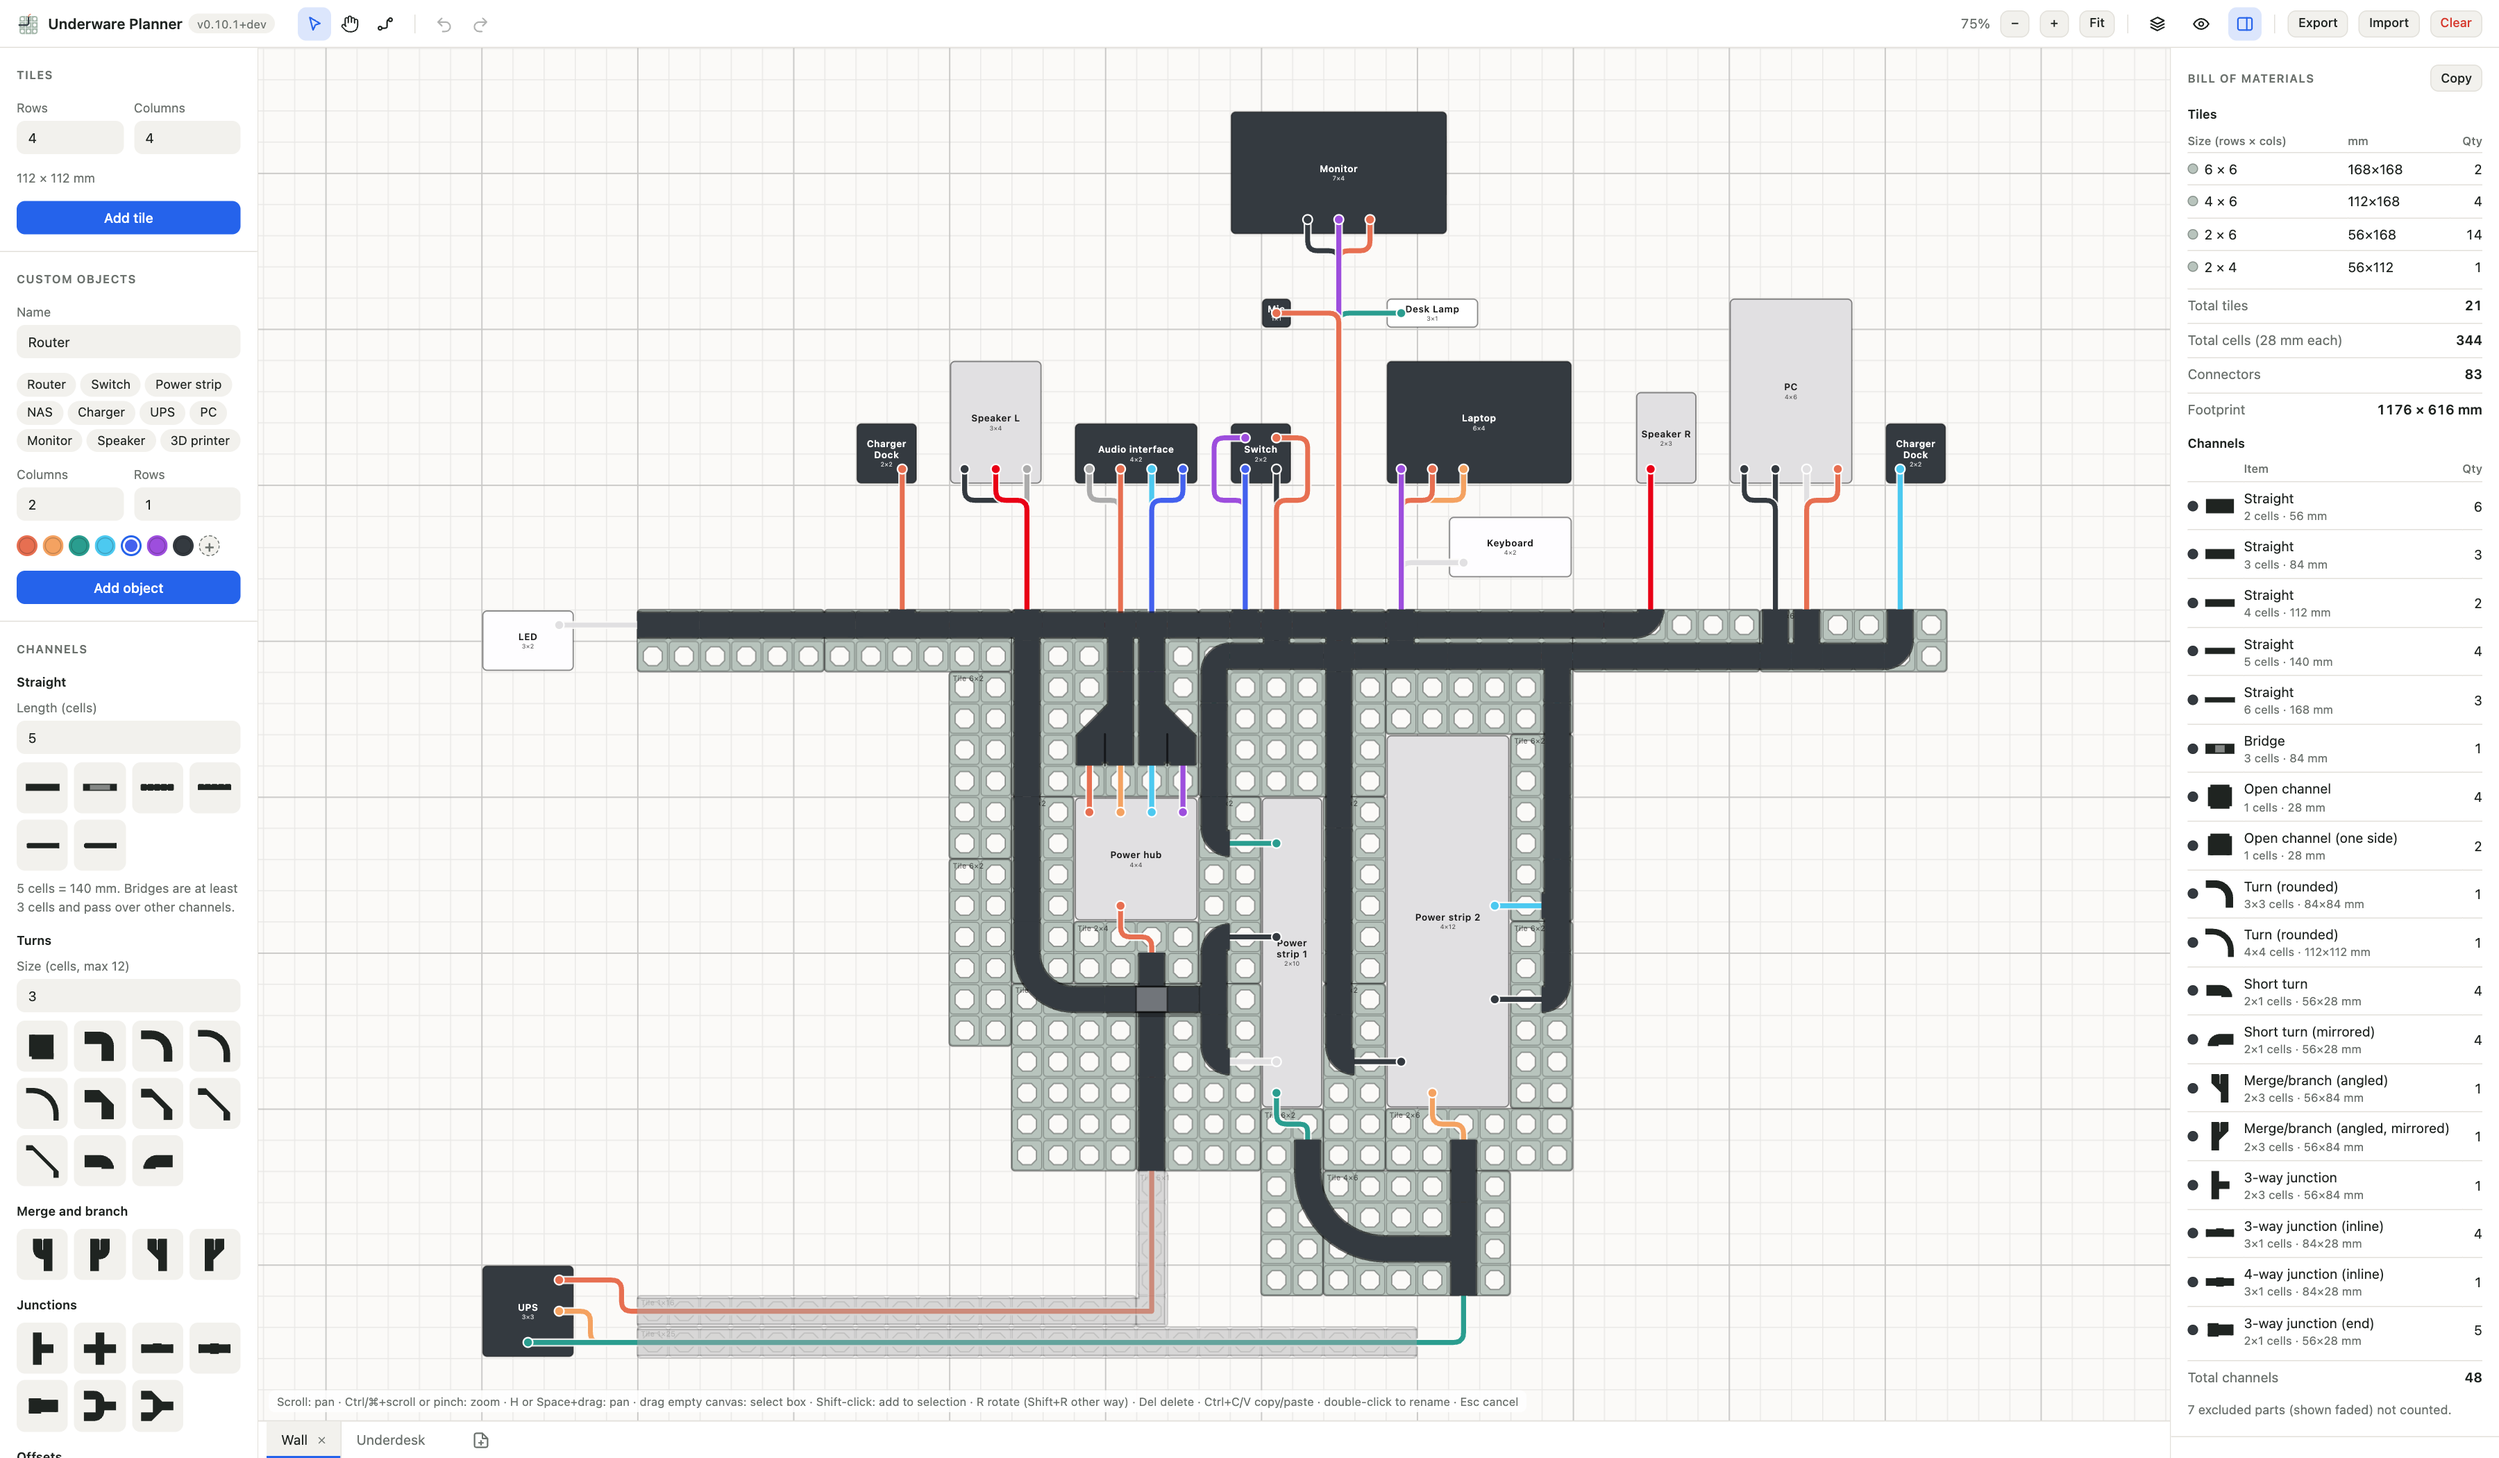
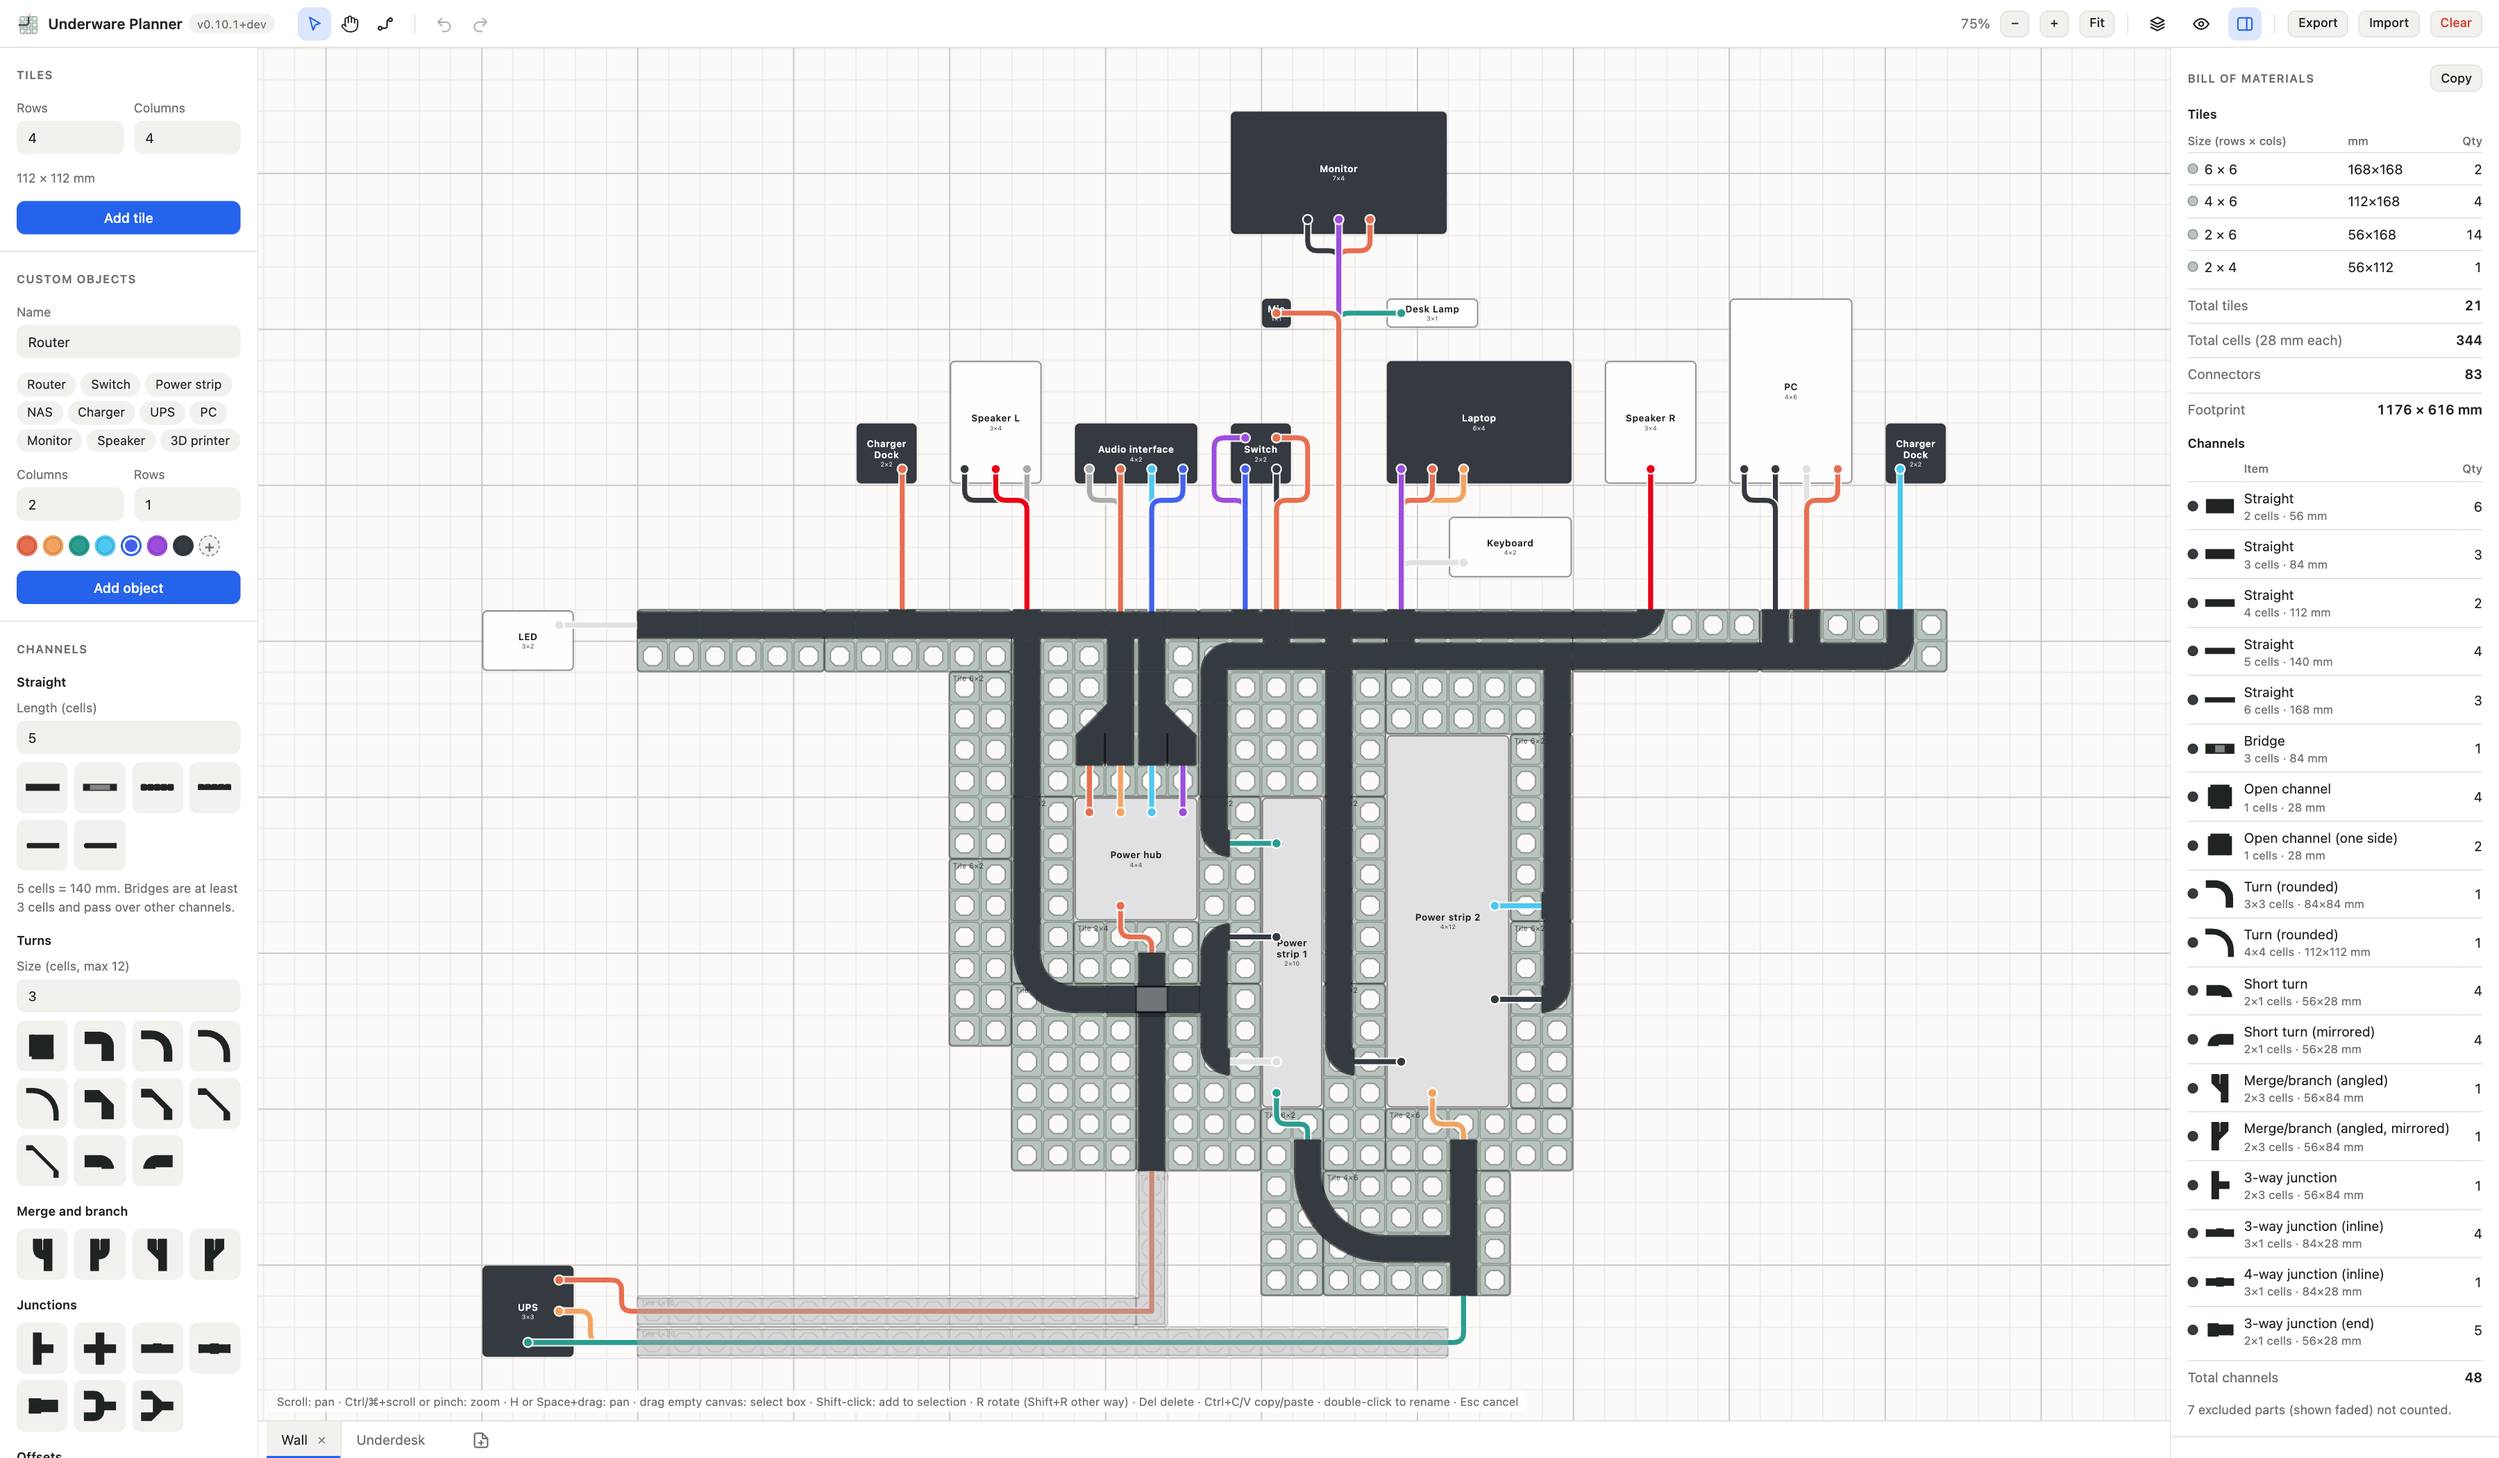
docs: retake the README screenshot with the updated layout

Changed region(s): [[0.6533, 0.1857, 0.7467, 0.3405], [0.3733, 0.2476, 0.4356, 0.3405], [0.56, 0.8976, 0.5911, 0.9286]]

diff --git a/CHANGELOG.md b/CHANGELOG.md
@@ -4,6 +4,10 @@ All notable changes to Underware Planner. Dates are YYYY-MM-DD.
 
 ## [Unreleased]
 
+### Changed
+
+- README screenshot shows the updated example layout.
+
 ### Fixed
 
 - Reset workspace now also resets swatches, tool, colours, layers, see-through and the library settings, as if the app were freshly opened.
